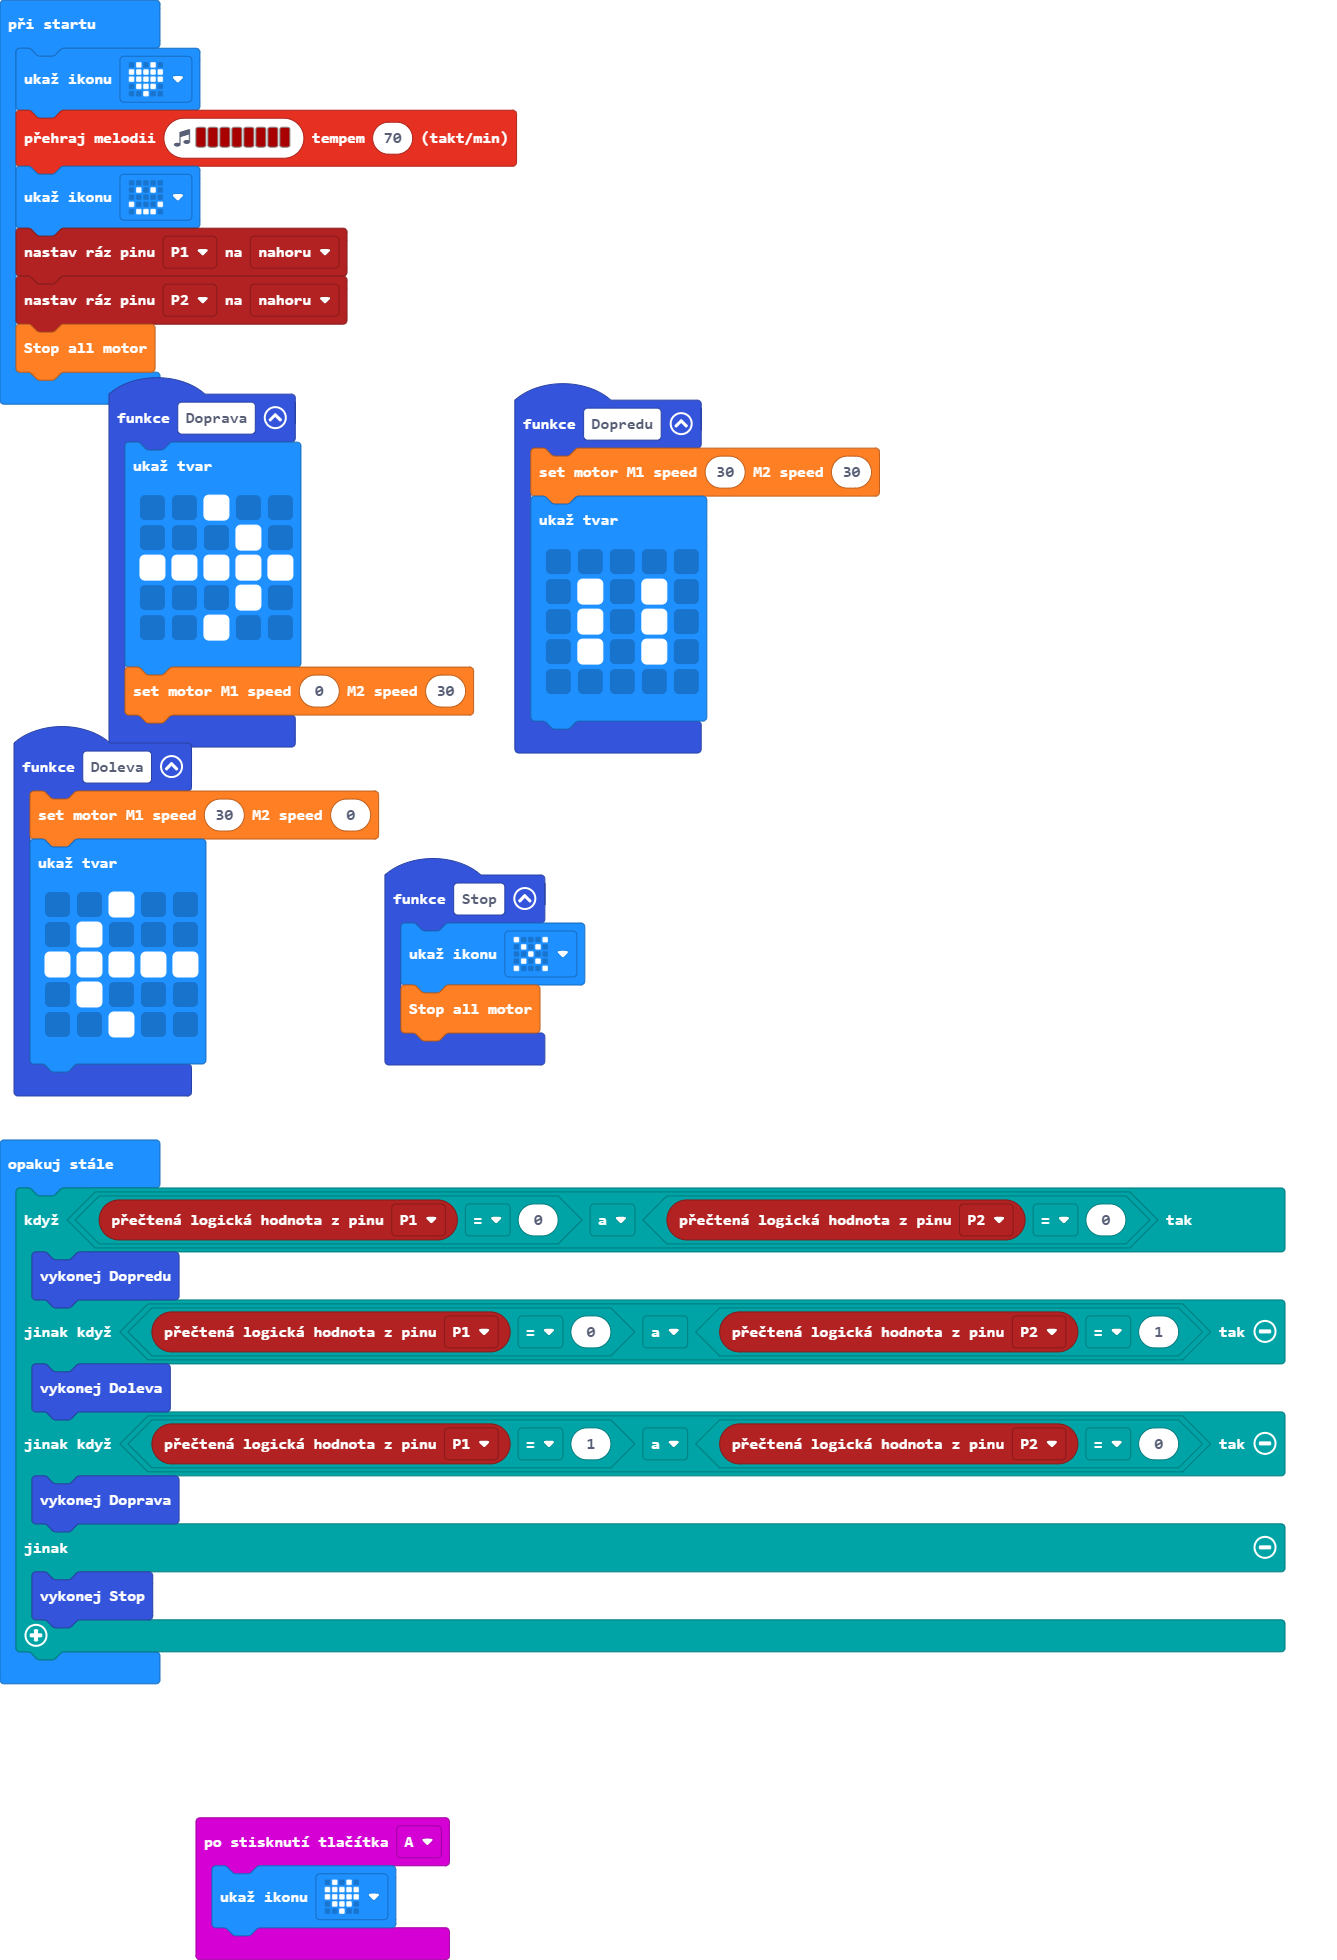
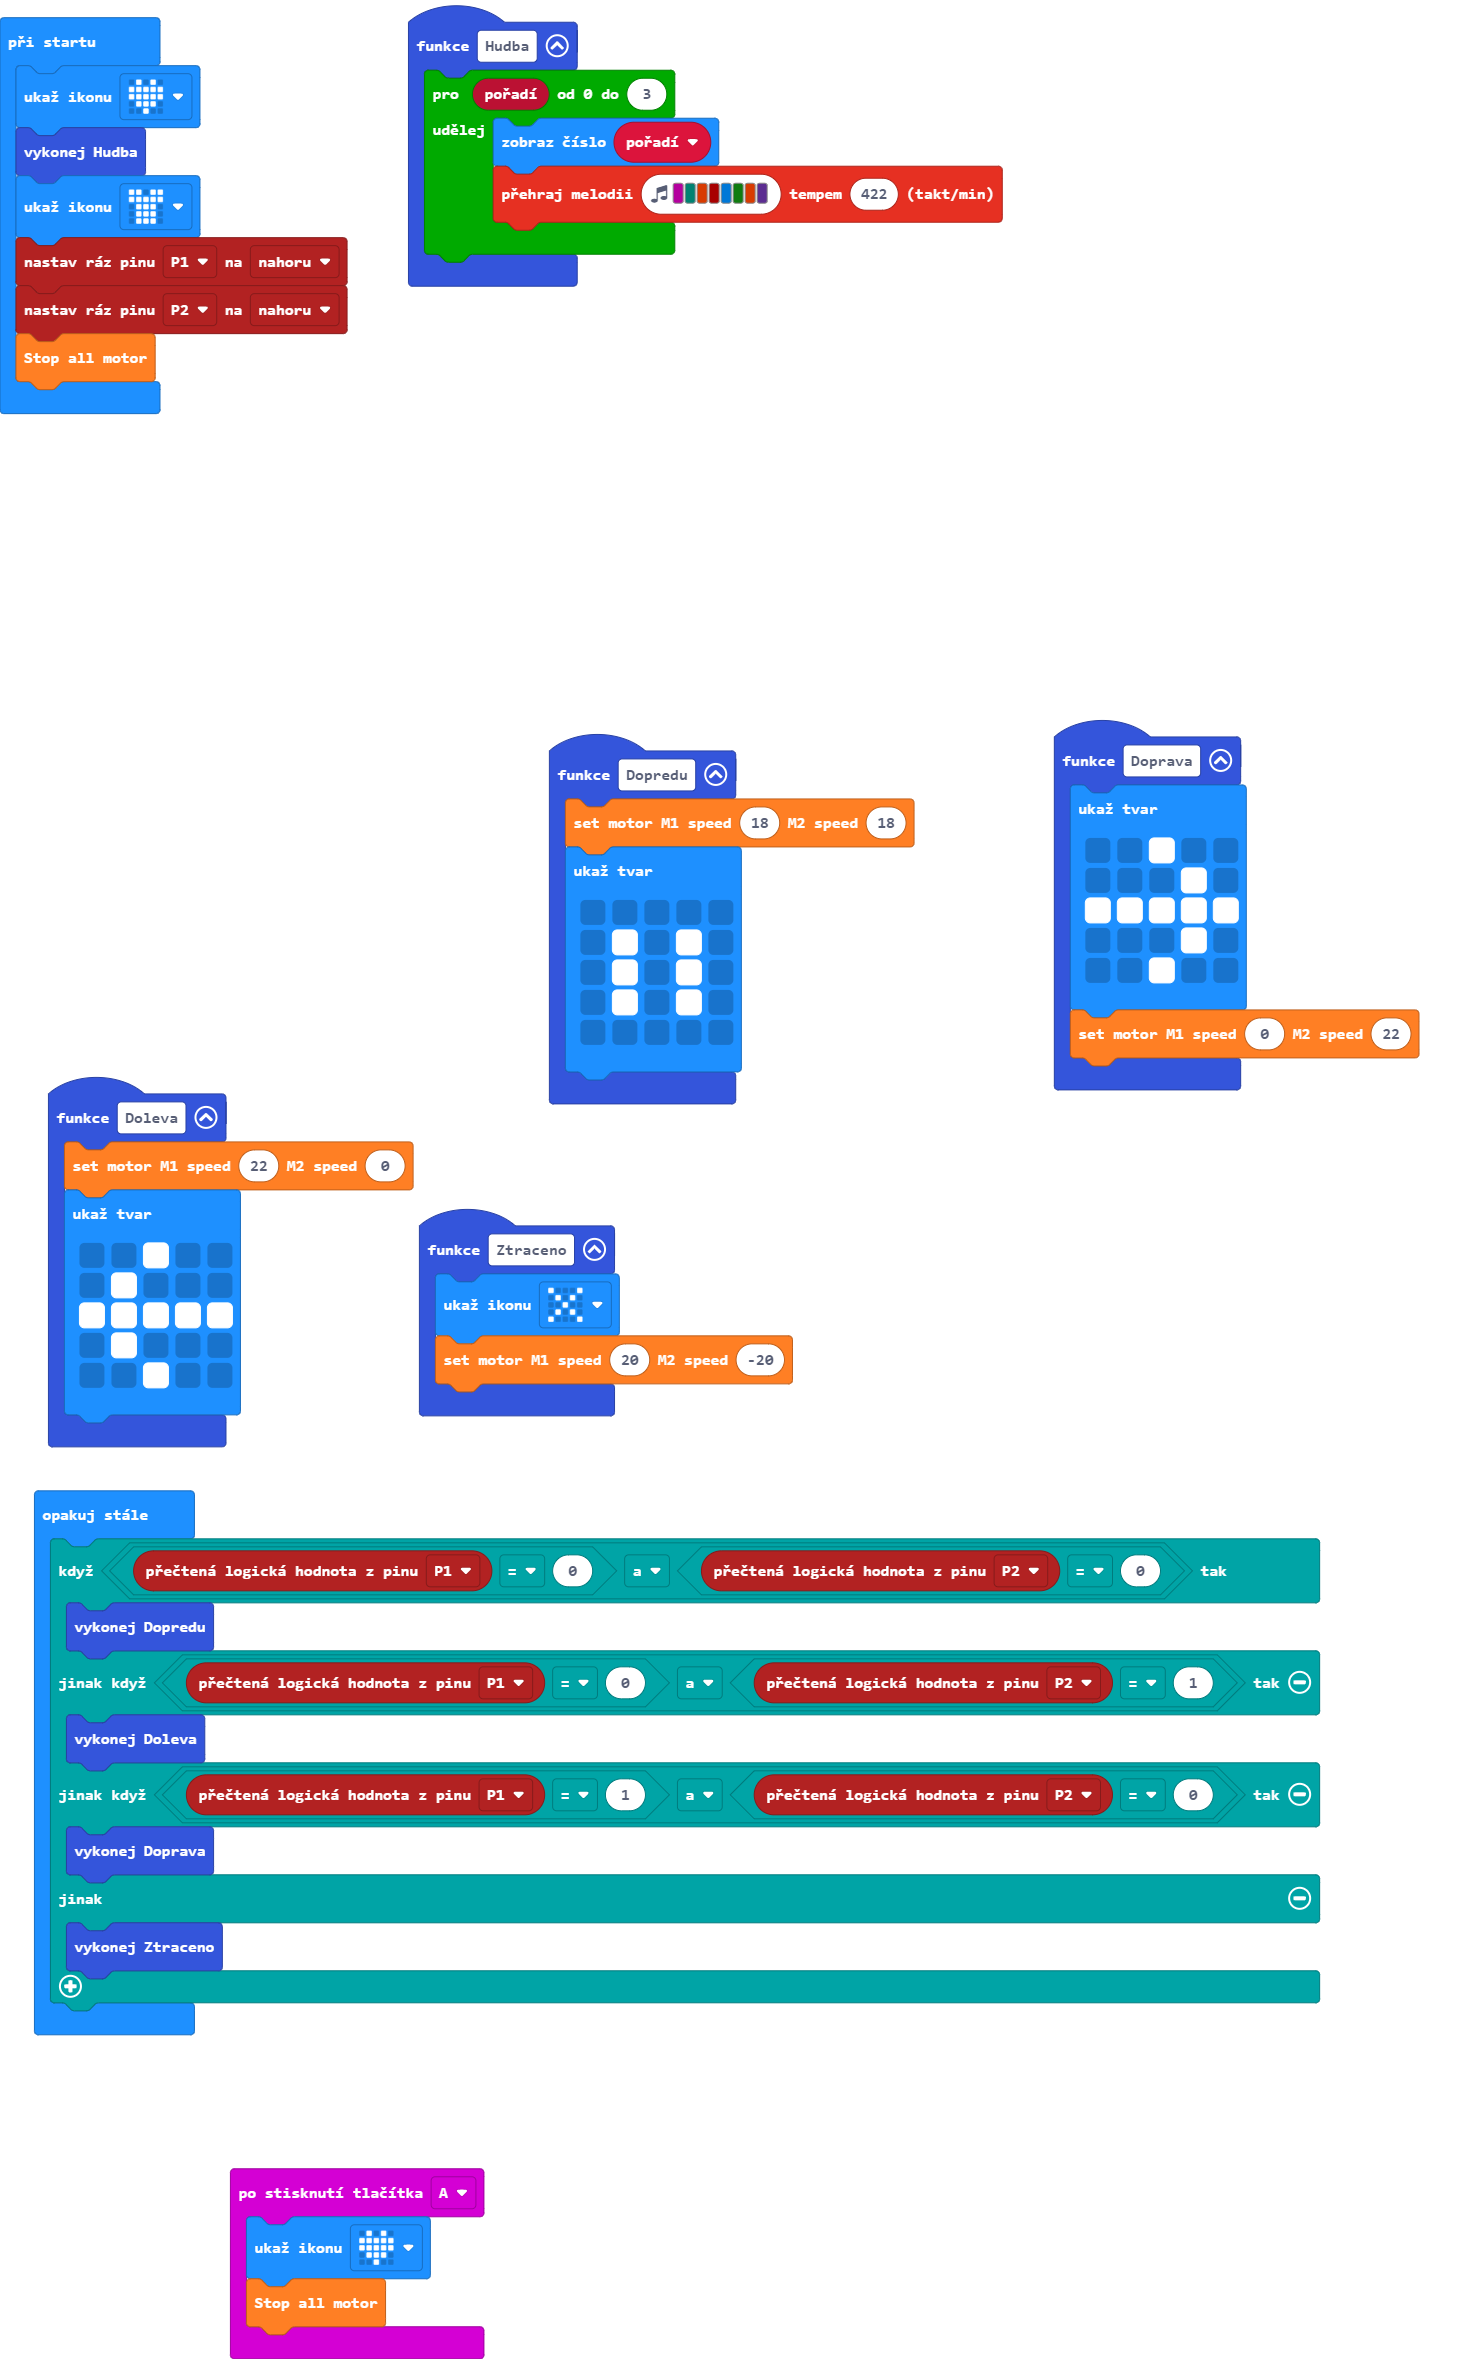
Aktualizovat main.blocks, main.ts

diff --git a/main.ts b/main.ts
@@ -1,5 +1,5 @@
 function Doleva () {
-    wuKong.setAllMotor(30, 0)
+    wuKong.setAllMotor(22, 0)
     basic.showLeds(`
         . . # . .
         . # . . .
@@ -10,9 +10,10 @@ function Doleva () {
 }
 input.onButtonPressed(Button.A, function () {
     basic.showIcon(IconNames.Heart)
+    wuKong.stopAllMotor()
 })
 function Dopredu () {
-    wuKong.setAllMotor(30, 30)
+    wuKong.setAllMotor(18, 18)
     basic.showLeds(`
         . . . . .
         . # . # .
@@ -20,6 +21,16 @@ function Dopredu () {
         . # . # .
         . . . . .
         `)
+}
+function Hudba () {
+    for (let pořadí = 0; pořadí <= 3; pořadí++) {
+        basic.showNumber(pořadí)
+        music.playMelody("C F B C5 E G B D ", 422)
+    }
+}
+function Ztraceno () {
+    basic.showIcon(IconNames.No)
+    wuKong.setAllMotor(20, -20)
 }
 function Doprava () {
     basic.showLeds(`
@@ -29,15 +40,11 @@ function Doprava () {
         . . . # .
         . . # . .
         `)
-    wuKong.setAllMotor(0, 30)
-}
-function Stop () {
-    basic.showIcon(IconNames.No)
-    wuKong.stopAllMotor()
+    wuKong.setAllMotor(0, 22)
 }
 basic.showIcon(IconNames.Heart)
-music.playMelody("C5 C5 C5 C5 C5 C5 C5 C5 ", 70)
-basic.showIcon(IconNames.Happy)
+Hudba()
+basic.showIcon(IconNames.TShirt)
 pins.setPull(DigitalPin.P1, PinPullMode.PullUp)
 pins.setPull(DigitalPin.P2, PinPullMode.PullUp)
 wuKong.stopAllMotor()
@@ -49,6 +56,6 @@ basic.forever(function () {
     } else if (pins.digitalReadPin(DigitalPin.P1) == 1 && pins.digitalReadPin(DigitalPin.P2) == 0) {
         Doprava()
     } else {
-        Stop()
+        Ztraceno()
     }
 })
